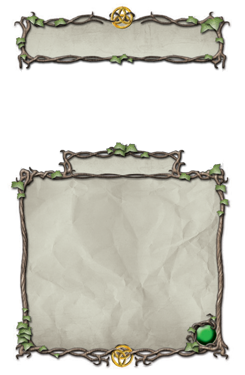
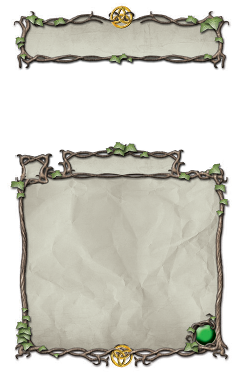
- podmiana szablonu miasta na 300dpi - dodanie miejsce na ikonę dodatku na szablonie lasu - pokazywanie części z parametrami gdy jest już wczytane jQeury UI

diff --git a/turniej/templates/generator.html b/turniej/templates/generator.html
@@ -7,6 +7,19 @@
   <link rel="stylesheet" type="text/css" href="/static/css/bootstrap.min.css">
   <link rel="stylesheet" type="text/css" href="/static/css/jquery-ui.min.css">
   <link rel="stylesheet" type="text/css" href="/static/css/style.css">
+
+
+  <script src="/static/js/jquery-3.2.1.min.js"></script>
+  <script src="/static/js/jquery-ui.min.js"></script>
+
+  <script>
+    $( function() {
+      $("#params").tabs();
+      $(":checkbox").checkboxradio();
+      $("#params").removeClass('hidden');
+    } );
+    
+  </script>
 </head>
 <body>
 
@@ -17,7 +30,7 @@
     <div class="col-sm-6">
         
     
-      <div id="params">
+      <div id="params" class="hidden">
         <ul>
           <li><a href="#tabs-1">Szablon</a></li>
           <li><a href="#tabs-2">Tekst</a></li>
@@ -130,10 +143,6 @@
   </div>
 </div>
   
-  <script src="/static/js/jquery-3.2.1.min.js"></script>
-  <script src="/static/js/jquery-ui.min.js"></script>
-  
-
   <script>
     var picture = '';
     var pic_effect = null;

diff --git a/turniej/static/js/app.js b/turniej/static/js/app.js
@@ -439,13 +439,13 @@ function readImage(input, output) {
 };
 
 window.onload = function() {
+  //$("#params").tabs();
+  //$(":checkbox").checkboxradio();
+  
   // wczytywanie czcionek
   document.fonts.load('10pt "Windlass Extended"');//.then(renderText);;
   document.fonts.load('10pt "Caxton Extended"');
 
-  $("#params").tabs();
-  $(":checkbox").checkboxradio();
-  
    
   // wypelnianie listy dodatków
    $('#expansion').append('<option value="0">Wszystkie</option>');

diff --git a/turniej/models.py b/turniej/models.py
@@ -37,7 +37,6 @@ class Karta(models.Model):
         return self.nazwa
 
 
-
 class Layout(models.Model):
     element = models.ForeignKey('Element')
     name = models.CharField(max_length=50)
@@ -50,6 +49,7 @@ class Layout(models.Model):
     on_reverse_list = models.BooleanField(default=True)
     on_layout_list = models.BooleanField(default=True)
     exp_symbol = models.BooleanField(default=False)
+    exp_symbol_background = models.CharField(max_length=50, null=True, blank=True)
     class Meta:
         ordering = ['name']
     def __unicode__(self):
